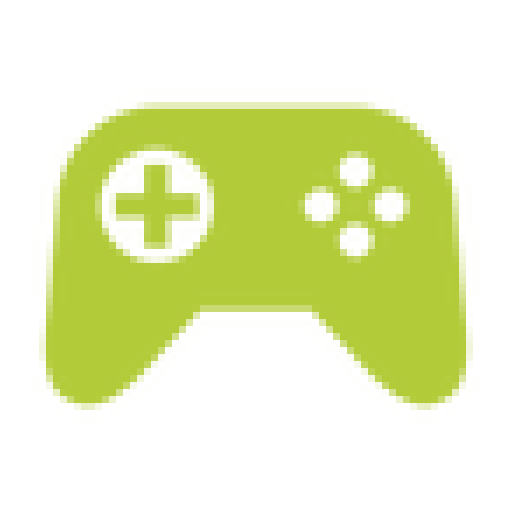
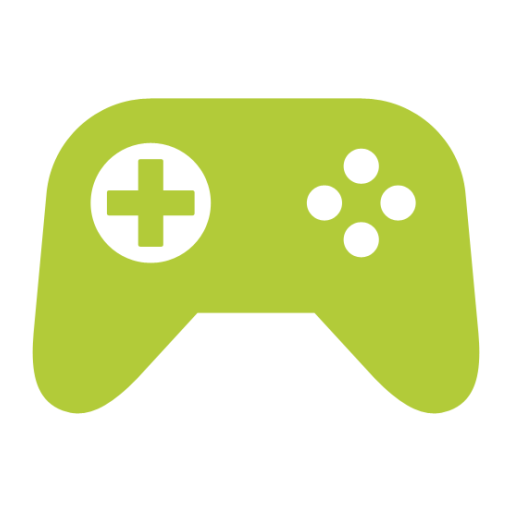
Changed the sound and music images. Finished the sound and music buttons

diff --git a/Bouncy/gen/com/blogspot/mathjoy/bouncy/R.java b/Bouncy/gen/com/blogspot/mathjoy/bouncy/R.java
@@ -421,15 +421,19 @@ containing a value of this type.
         public static final int ic_plusone_tall_off_client=0x7f020021;
         public static final int liney=0x7f020022;
         public static final int music_off=0x7f020023;
-        public static final int music_on=0x7f020024;
-        public static final int muted=0x7f020025;
-        public static final int powered_by_google_dark=0x7f020026;
-        public static final int powered_by_google_light=0x7f020027;
-        public static final int redo=0x7f020028;
-        public static final int sounds_on=0x7f020029;
-        public static final int square=0x7f02002a;
-        public static final int squiggle=0x7f02002b;
-        public static final int undo=0x7f02002c;
+        public static final int music_off_big=0x7f020024;
+        public static final int music_on=0x7f020025;
+        public static final int music_on_big=0x7f020026;
+        public static final int muted=0x7f020027;
+        public static final int muted_big=0x7f020028;
+        public static final int powered_by_google_dark=0x7f020029;
+        public static final int powered_by_google_light=0x7f02002a;
+        public static final int redo=0x7f02002b;
+        public static final int sounds_on=0x7f02002c;
+        public static final int sounds_on_big=0x7f02002d;
+        public static final int square=0x7f02002e;
+        public static final int squiggle=0x7f02002f;
+        public static final int undo=0x7f020030;
     }
     public static final class id {
         public static final int Ball=0x7f09002e;
@@ -476,20 +480,21 @@ containing a value of this type.
         public static final int introPlay=0x7f090023;
         public static final int introStats=0x7f090024;
         public static final int introView=0x7f090021;
-        public static final int line=0x7f090052;
+        public static final int line=0x7f090053;
         public static final int loadConf=0x7f09002a;
         public static final int loadConfText=0x7f090027;
         public static final int match_parent=0x7f09000c;
         public static final int monochrome=0x7f090013;
+        public static final int musicOnActionBar=0x7f09004f;
         public static final int myView=0x7f090033;
         public static final int none=0x7f090000;
         public static final int normal=0x7f090001;
         public static final int numBouncesText=0x7f09001a;
         public static final int one=0x7f09004d;
         public static final int otdText=0x7f09001b;
-        public static final int oval=0x7f090053;
+        public static final int oval=0x7f090054;
         public static final int production=0x7f090007;
-        public static final int rect=0x7f090054;
+        public static final int rect=0x7f090055;
         public static final int redoText=0x7f09002d;
         public static final int renameConf=0x7f090049;
         public static final int restoreToDefault=0x7f09003e;
@@ -502,14 +507,14 @@ containing a value of this type.
         public static final int signInInfo=0x7f09001d;
         public static final int signOutButt=0x7f09001f;
         public static final int soundsOnActionBar=0x7f09004e;
-        public static final int squiggle=0x7f090055;
+        public static final int squiggle=0x7f090056;
         public static final int strict_sandbox=0x7f090009;
         public static final int terrain=0x7f090003;
         public static final int textBallColor=0x7f090035;
         public static final int textView1=0x7f090041;
-        public static final int toGameStats=0x7f090051;
-        public static final int toGameStatsWithIcon=0x7f09004f;
-        public static final int toIntro=0x7f090050;
+        public static final int toGameStats=0x7f090052;
+        public static final int toGameStatsWithIcon=0x7f090050;
+        public static final int toIntro=0x7f090051;
         public static final int toggleMusic=0x7f090026;
         public static final int toggleSounds=0x7f090025;
         public static final int valueOfBounceLevel=0x7f09003a;

diff --git a/Bouncy/src/com/blogspot/mathjoy/bouncy/IntroActivity.java b/Bouncy/src/com/blogspot/mathjoy/bouncy/IntroActivity.java
@@ -32,9 +32,11 @@ public class IntroActivity extends BaseGameActivity
 	int[] possibleColors = { Color.RED, Color.rgb(255, 127, 0), Color.YELLOW, Color.GREEN, Color.BLUE, Color.rgb(160, 32, 240), Color.rgb(255, 105, 180), Color.rgb(127, 63, 15), Color.WHITE, Color.GRAY };
 	String[] possibleColorNames = { "Red", "Orange", "Yellow", "Green", "Blue", "Purple", "Pink", "Brown", "White", "Gray" };
 	ImageButton soundsTog;
+	ImageButton musicTog;
 	private static boolean firstTime = true;
 	public static MediaPlayer mp;
 	private boolean soundsOn = true;
+	public static boolean musicOn = true;
 
 	@Override
 	protected void onCreate(Bundle savedInstanceState)
@@ -42,9 +44,20 @@ public class IntroActivity extends BaseGameActivity
 		super.onCreate(savedInstanceState);
 		setContentView(R.layout.activity_intro);
 		setVolumeControlStream(AudioManager.STREAM_MUSIC);
-		mp = MediaPlayer.create(this, R.raw.background);
-		mp.setLooping(true);
-		mp.start();
+		if (mp == null)
+		{
+			if (musicOn)
+			{
+				mp = MediaPlayer.create(this, R.raw.background);
+				mp.setLooping(true);
+				mp.start();
+			}
+		} else if (!mp.isPlaying() && musicOn)
+		{
+			mp = MediaPlayer.create(this, R.raw.background);
+			mp.setLooping(true);
+			mp.start();
+		}
 		originalBounce = spool.load(this, R.raw.bounce, 1);
 		originalButton = spool.load(this, R.raw.button, 1);
 		if (firstTime)
@@ -89,6 +102,31 @@ public class IntroActivity extends BaseGameActivity
 		if (!soundsOn)
 		{
 			soundsTog.setBackgroundResource(R.drawable.muted);
+		}
+		musicTog = (ImageButton) findViewById(R.id.toggleMusic);
+		musicTog.setOnClickListener(new View.OnClickListener()
+		{
+			@Override
+			public void onClick(View v)
+			{
+				if (!musicOn)
+				{
+					mp = MediaPlayer.create(IntroActivity.this, R.raw.background);
+					mp.setLooping(true);
+					mp.start();
+					musicOn = true;
+					musicTog.setBackgroundResource(R.drawable.music_on);
+				} else
+				{
+					mp.stop();
+					musicOn = false;
+					musicTog.setBackgroundResource(R.drawable.music_off);
+				}
+			}
+		});
+		if (!musicOn)
+		{
+			musicTog.setBackgroundResource(R.drawable.music_off);
 		}
 		if (WorldManager.world == null)
 		{
@@ -136,9 +174,9 @@ public class IntroActivity extends BaseGameActivity
 			}
 		}
 		IntroView.intro = true;
-		if (!mp.isPlaying())
+		if (!mp.isPlaying() && musicOn)
 		{
-			IntroActivity.mp = MediaPlayer.create(this, R.raw.background);
+			mp = MediaPlayer.create(this, R.raw.background);
 			mp.setLooping(true);
 			mp.start();
 		}

diff --git a/Bouncy/src/com/blogspot/mathjoy/bouncy/SettingsTabsActivity.java b/Bouncy/src/com/blogspot/mathjoy/bouncy/SettingsTabsActivity.java
@@ -96,7 +96,7 @@ public class SettingsTabsActivity extends FragmentActivity implements TabListene
 	protected void onResume()
 	{
 		super.onResume();
-		if (!IntroActivity.mp.isPlaying())
+		if (!IntroActivity.mp.isPlaying() && IntroActivity.musicOn)
 		{
 			IntroActivity.mp = MediaPlayer.create(this, R.raw.background);
 			IntroActivity.mp.setLooping(true);
@@ -128,7 +128,11 @@ public class SettingsTabsActivity extends FragmentActivity implements TabListene
 		getMenuInflater().inflate(R.menu.menu_items, menu);
 		if (!soundsOn)
 		{
-			menu.getItem(0).setIcon(R.drawable.muted);
+			menu.getItem(0).setIcon(R.drawable.muted_big);
+		}
+		if (!IntroActivity.musicOn)
+		{
+			menu.getItem(1).setIcon(R.drawable.music_off_big);
 		}
 		return true;
 	}
@@ -258,27 +262,47 @@ public class SettingsTabsActivity extends FragmentActivity implements TabListene
 			goToGameServices();
 			return true;
 		case R.id.soundsOnActionBar:
-			togglesounds(item);
+			toggleSounds(item);
+			return true;
+		case R.id.musicOnActionBar:
+			toggleMusic(item);
 			return true;
 		}
 		return super.onOptionsItemSelected(item);
 	}
 
-	private void togglesounds(MenuItem item)
+	private void toggleSounds(MenuItem item)
 	{
 		if (!soundsOn)
 		{
 			IntroActivity.bounce = IntroActivity.originalBounce;
 			IntroActivity.button = IntroActivity.originalButton;
-			item.setIcon(R.drawable.sounds_on);
+			item.setIcon(R.drawable.sounds_on_big);
 			soundsOn = true;
 			IntroActivity.spool.play(IntroActivity.button, buttonVolume, buttonVolume, 0, 0, 1);
 		} else
 		{
 			IntroActivity.bounce = 0;
 			IntroActivity.button = 0;
-			item.setIcon(R.drawable.muted);
+			item.setIcon(R.drawable.muted_big);
 			soundsOn = false;
+		}
+	}
+
+	private void toggleMusic(MenuItem item)
+	{
+		if (!IntroActivity.musicOn)
+		{
+			IntroActivity.mp = MediaPlayer.create(this, R.raw.background);
+			IntroActivity.mp.setLooping(true);
+			IntroActivity.mp.start();
+			item.setIcon(R.drawable.music_on_big);
+			IntroActivity.musicOn = true;
+		} else
+		{
+			IntroActivity.mp.stop();
+			item.setIcon(R.drawable.music_off_big);
+			IntroActivity.musicOn = false;
 		}
 	}
 }

diff --git a/Bouncy/src/com/blogspot/mathjoy/bouncy/MainActivity.java b/Bouncy/src/com/blogspot/mathjoy/bouncy/MainActivity.java
@@ -179,7 +179,7 @@ public class MainActivity extends BaseGameActivity implements OnTouchListener, C
 		{
 			redoText.setTextColor(Color.TRANSPARENT);
 		}
-		if (!IntroActivity.mp.isPlaying())
+		if (!IntroActivity.mp.isPlaying() && IntroActivity.musicOn)
 		{
 			IntroActivity.mp = MediaPlayer.create(this, R.raw.background);
 			IntroActivity.mp.setLooping(true);

diff --git a/Bouncy/src/com/blogspot/mathjoy/bouncy/GameServicesActivity.java b/Bouncy/src/com/blogspot/mathjoy/bouncy/GameServicesActivity.java
@@ -68,7 +68,7 @@ public class GameServicesActivity extends BaseGameActivity implements ResultCall
 	protected void onResume()
 	{
 		super.onResume();
-		if (!IntroActivity.mp.isPlaying())
+		if (!IntroActivity.mp.isPlaying() && IntroActivity.musicOn)
 		{
 			IntroActivity.mp = MediaPlayer.create(this, R.raw.background);
 			IntroActivity.mp.setLooping(true);
